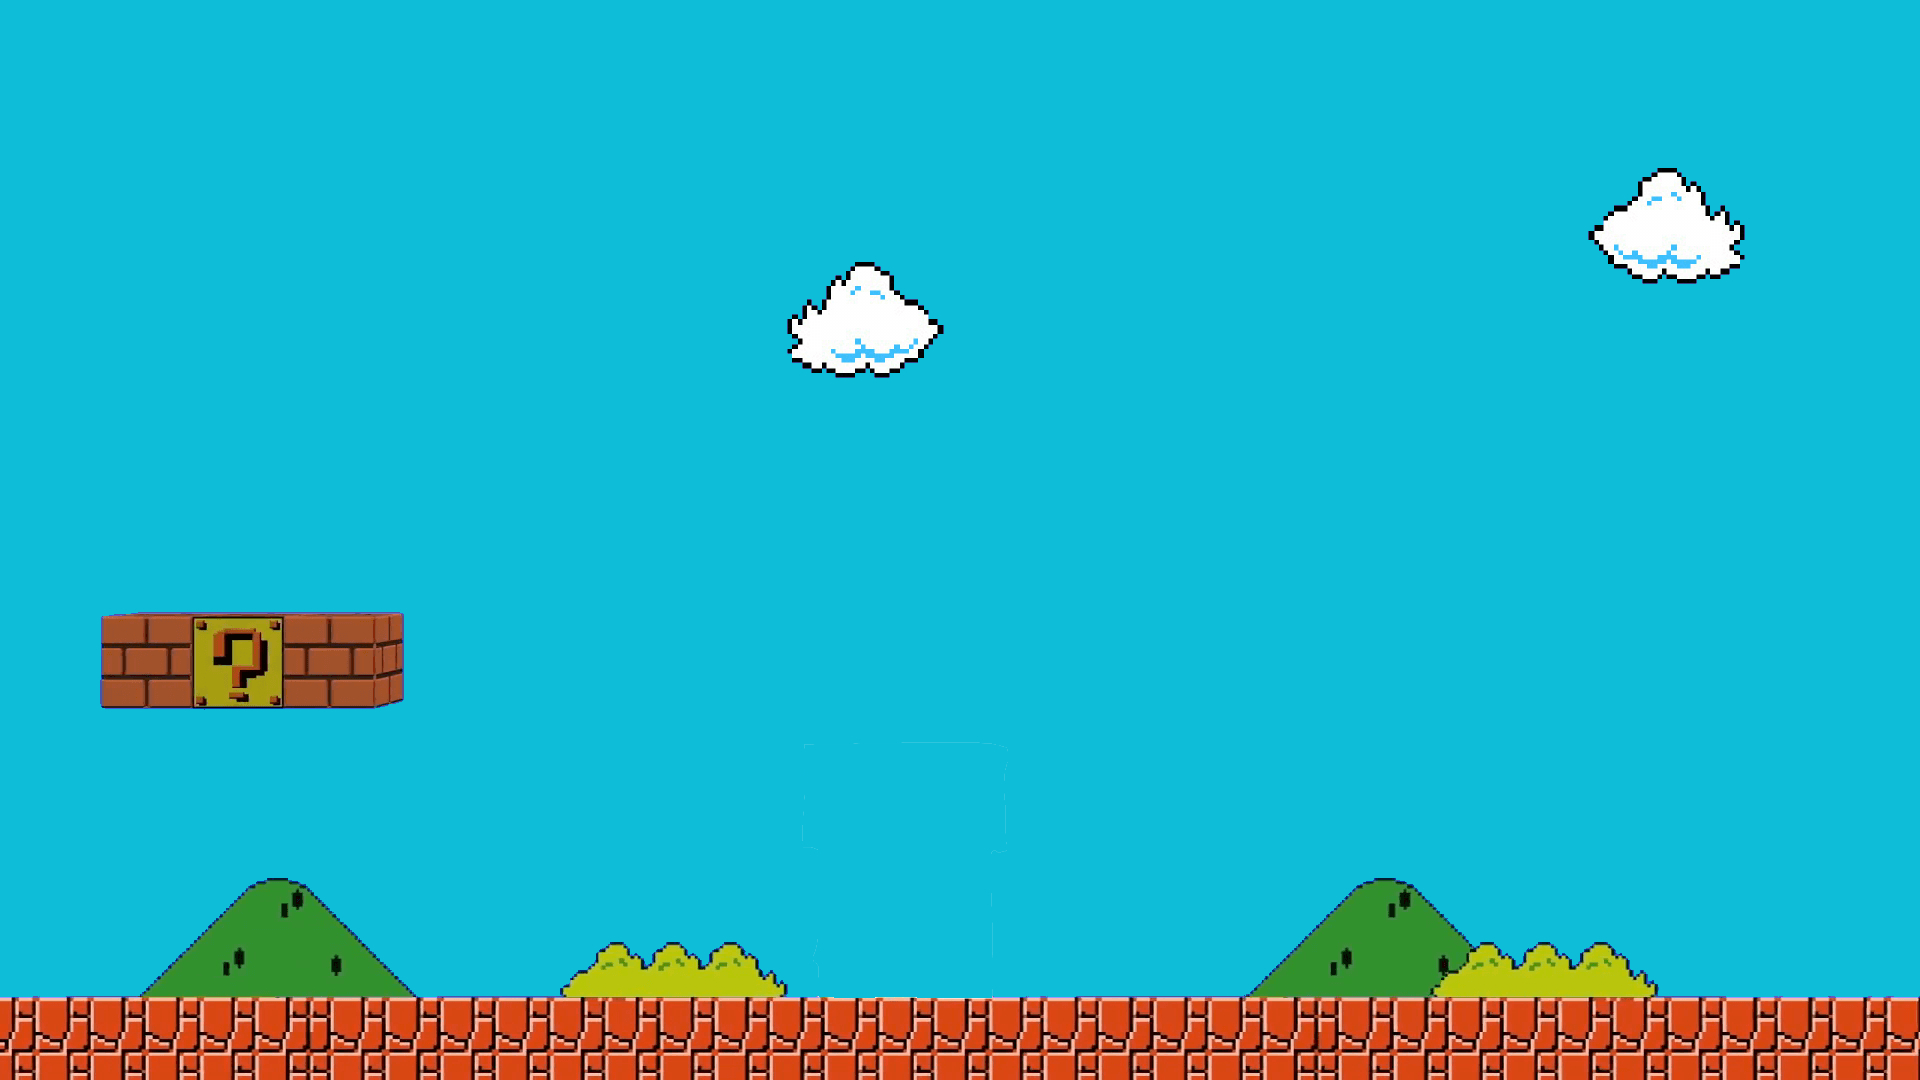
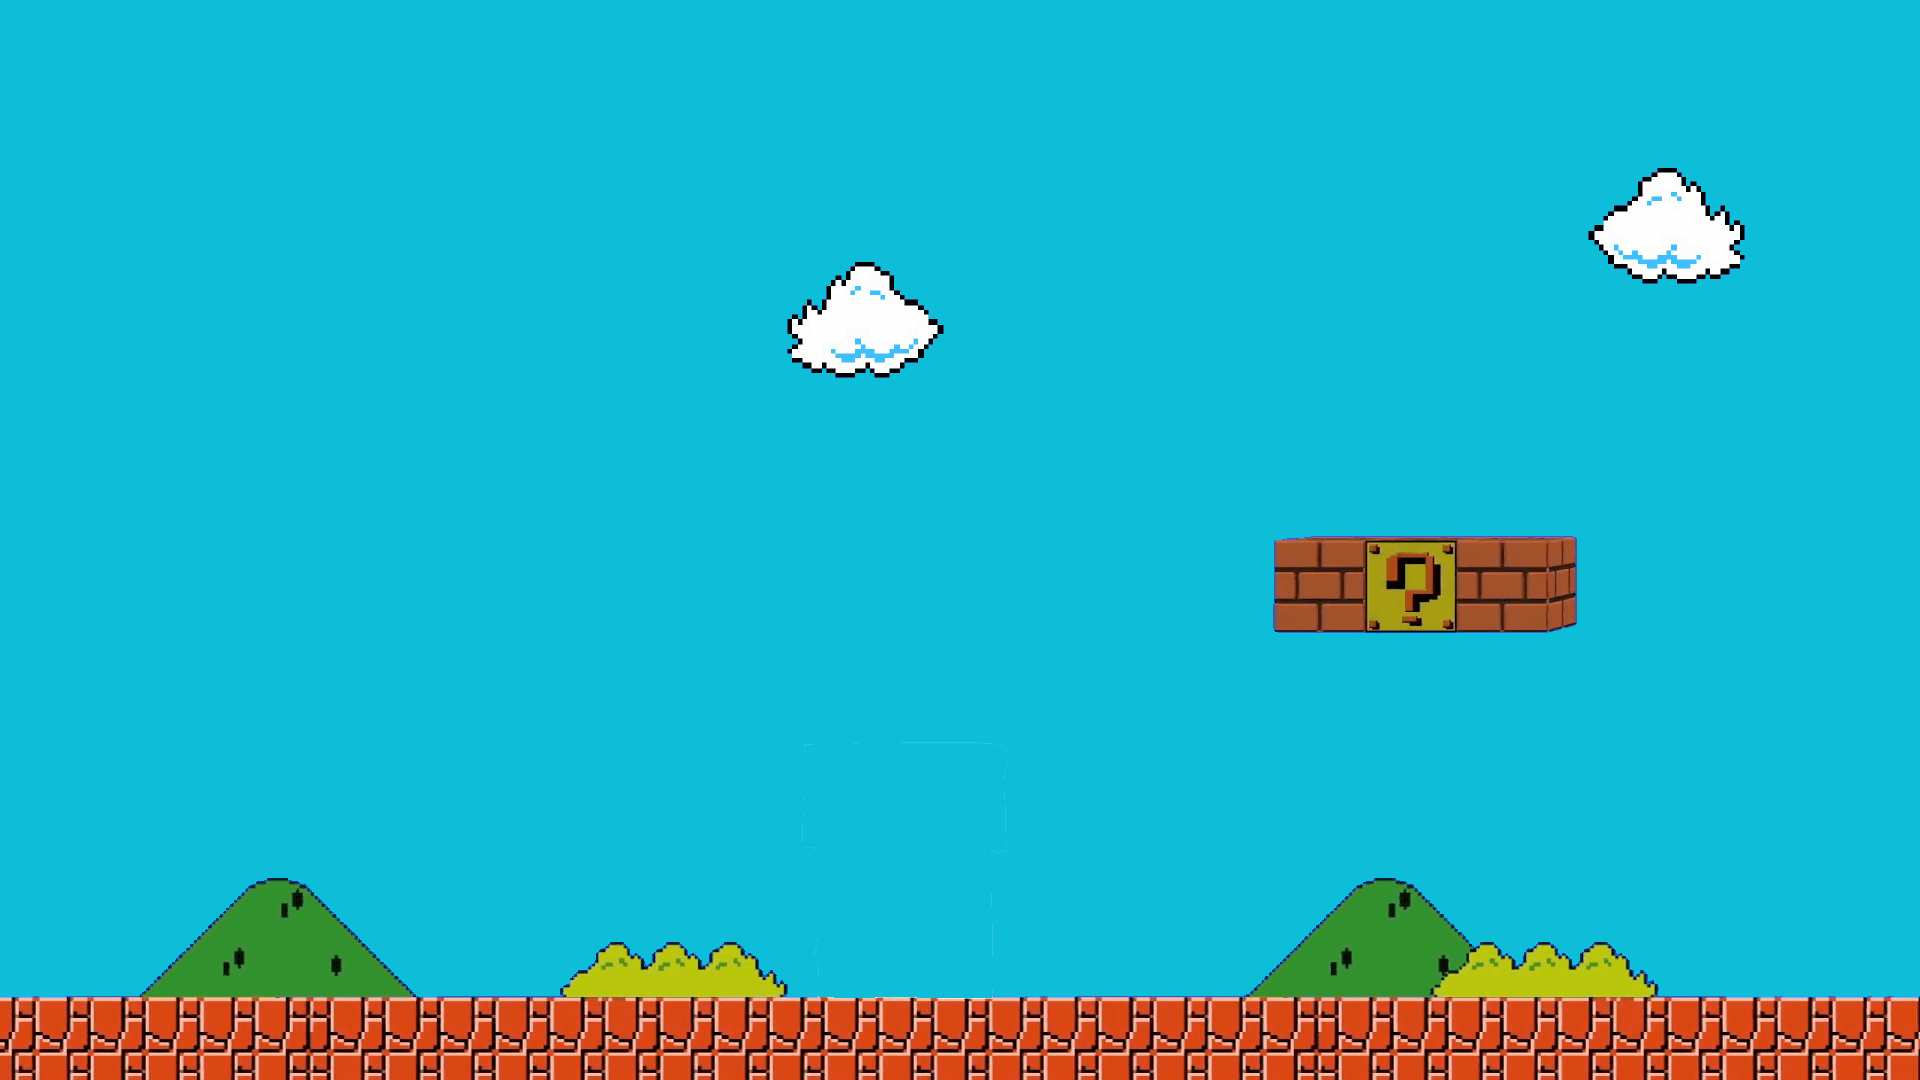
updates

Changed region(s): [[0.0312, 0.55, 0.2188, 0.6722], [0.6562, 0.4889, 0.8438, 0.6111]]

diff --git a/index.html b/index.html
@@ -20,148 +20,48 @@
         <img src="pipe.png" id="pipe">
         <img src="mario.png" id="mario">
         <img src="brick.png" id="brick">
-        <div class="neon-animation" style="width: 300px; height: 12px; background-color: salmon"></div>
-        <img src="me.jpg" id="me">
+        <div class="neon-animation" style="width: 301px; height: 12px;"></div>
+        <div class="neon-animation" style="top: 17%; width: 300px; height: 12px;"></div>
+        <div class="neon-animation" style="top: 17%; left: 66.3%; width: 12px; height: 300px;"></div>
+        <div class="neon-animation" style="top: 17%; left: 81.5%; width: 12px; height: 300px;"></div>
+        <img src="me.png" id="me">
         <div id="about">
-          <h2>Intro<br/>About me...</h2>
+          <h2><b><i>Hi, I'm Samr!</i></b><br/><hr/>
+            <ul id="aboutlist">
+              <li style="font-size: 85%;">BSc Software Engineering student</li>
+              <br/>
+              <li style="color: #f7db85; font-size: 77%;">My passion for technology started, as you might've guessed it,
+                <br/>with Super Mario Bros. game :)<br/>
+                The more life advanced,<br/>
+                the more curious I became as to how these "wonder machines" worked.<br/>
+                Now, I'm at a stage of knowledge and passion<br/>
+                where I'm ready for my next adventure, and start my career as a
+              </li>
+              <li style="font-size: 90%;">Backend\Full-Stack intern and other relevant roles!</li>
+              <br/>
+              <li style="color: #c6ec66; font-size: 40%;">Keep scrolling to find out Mario's destination!!</li>
+            </ul>
+          </h2>
           <p></p>
         </div>
       </section>
       <div class="txt">
-        <h2>testing</h2>
-        <p>
-          introintrointrointrointrointrointrointrointrointrointrointrointrointrointrointro<br/>
-          introintrointrointrointrointrointrointrointrointrointrointrointrointrointrointro<br/>
-          introintrointrointrointrointrointrointrointrointrointrointrointrointrointrointro<br/>
-          introintrointrointrointrointrointrointrointrointrointrointrointrointrointrointro<br/>
-          introintrointrointrointrointrointrointrointrointrointrointrointrointrointrointro<br/>
-          introintrointrointrointrointrointrointrointrointrointrointrointrointrointrointro<br/>
-          introintrointrointrointrointrointrointrointrointrointrointrointrointrointrointro<br/>
-          introintrointrointrointrointrointrointrointrointrointrointrointrointrointrointro<br/>
-          introintrointrointrointrointrointrointrointrointrointrointrointrointrointrointro<br/>
-          introintrointrointrointrointrointrointrointrointrointrointrointrointrointrointro<br/>
-          introintrointrointrointrointrointrointrointrointrointrointrointrointrointrointro<br/>
-          introintrointrointrointrointrointrointrointrointrointrointrointrointrointrointro<br/>
+        <h1 id="txtheader">PROJECTS</h1> <br/><br/>
+        <p class="para">
+          <h2>CEMS System</h2>
         </p>
-        <p>
-          introintrointrointrointrointrointrointrointrointrointrointrointrointrointrointro<br/>
-          introintrointrointrointrointrointrointrointrointrointrointrointrointrointrointro<br/>
-          introintrointrointrointrointrointrointrointrointrointrointrointrointrointrointro<br/>
-          introintrointrointrointrointrointrointrointrointrointrointrointrointrointrointro<br/>
-          introintrointrointrointrointrointrointrointrointrointrointrointrointrointrointro<br/>
-          introintrointrointrointrointrointrointrointrointrointrointrointrointrointrointro<br/>
-          introintrointrointrointrointrointrointrointrointrointrointrointrointrointrointro<br/>
-          introintrointrointrointrointrointrointrointrointrointrointrointrointrointrointro<br/>
-          introintrointrointrointrointrointrointrointrointrointrointrointrointrointrointro<br/>
-          introintrointrointrointrointrointrointrointrointrointrointrointrointrointrointro<br/>
-          introintrointrointrointrointrointrointrointrointrointrointrointrointrointrointro<br/>
-          introintrointrointrointrointrointrointrointrointrointrointrointrointrointrointro<br/>
-          introintrointrointrointrointrointrointrointrointrointrointrointrointrointrointro<br/>
-          introintrointrointrointrointrointrointrointrointrointrointrointrointrointrointro<br/>
-          introintrointrointrointrointrointrointrointrointrointrointrointrointrointrointro<br/>
-          introintrointrointrointrointrointrointrointrointrointrointrointrointrointrointro<br/>
-          introintrointrointrointrointrointrointrointrointrointrointrointrointrointrointro<br/>
-          introintrointrointrointrointrointrointrointrointrointrointrointrointrointrointro<br/>
-          introintrointrointrointrointrointrointrointrointrointrointrointrointrointrointro<br/>
-          introintrointrointrointrointrointrointrointrointrointrointrointrointrointrointro<br/>
-          introintrointrointrointrointrointrointrointrointrointrointrointrointrointrointro<br/>
-          introintrointrointrointrointrointrointrointrointrointrointrointrointrointrointro<br/>
-          introintrointrointrointrointrointrointrointrointrointrointrointrointrointrointro<br/>
-          introintrointrointrointrointrointrointrointrointrointrointrointrointrointrointro<br/>
-          introintrointrointrointrointrointrointrointrointrointrointrointrointrointrointro<br/>
-          introintrointrointrointrointrointrointrointrointrointrointrointrointrointrointro<br/>
-          introintrointrointrointrointrointrointrointrointrointrointrointrointrointrointro<br/>
-          introintrointrointrointrointrointrointrointrointrointrointrointrointrointrointro<br/>
-          introintrointrointrointrointrointrointrointrointrointrointrointrointrointrointro<br/>
-          introintrointrointrointrointrointrointrointrointrointrointrointrointrointrointro<br/>
-          introintrointrointrointrointrointrointrointrointrointrointrointrointrointrointro<br/>
-          introintrointrointrointrointrointrointrointrointrointrointrointrointrointrointro<br/>
-          introintrointrointrointrointrointrointrointrointrointrointrointrointrointrointro<br/>
-          introintrointrointrointrointrointrointrointrointrointrointrointrointrointrointro<br/>
-          introintrointrointrointrointrointrointrointrointrointrointrointrointrointrointro<br/>
-          introintrointrointrointrointrointrointrointrointrointrointrointrointrointrointro<br/>
-          introintrointrointrointrointrointrointrointrointrointrointrointrointrointrointro<br/>
-          introintrointrointrointrointrointrointrointrointrointrointrointrointrointrointro<br/>
-          introintrointrointrointrointrointrointrointrointrointrointrointrointrointrointro<br/>
-          introintrointrointrointrointrointrointrointrointrointrointrointrointrointrointro<br/>
-          introintrointrointrointrointrointrointrointrointrointrointrointrointrointrointro<br/>
-          introintrointrointrointrointrointrointrointrointrointrointrointrointrointrointro<br/>
-          introintrointrointrointrointrointrointrointrointrointrointrointrointrointrointro<br/>
-          introintrointrointrointrointrointrointrointrointrointrointrointrointrointrointro<br/>
-          introintrointrointrointrointrointrointrointrointrointrointrointrointrointrointro<br/>
-          introintrointrointrointrointrointrointrointrointrointrointrointrointrointrointro<br/>
-          introintrointrointrointrointrointrointrointrointrointrointrointrointrointrointro<br/>
-          introintrointrointrointrointrointrointrointrointrointrointrointrointrointrointro<br/>
-          introintrointrointrointrointrointrointrointrointrointrointrointrointrointrointro<br/>
-          introintrointrointrointrointrointrointrointrointrointrointrointrointrointrointro<br/>
-          introintrointrointrointrointrointrointrointrointrointrointrointrointrointrointro<br/>
-          introintrointrointrointrointrointrointrointrointrointrointrointrointrointrointro<br/>
-          introintrointrointrointrointrointrointrointrointrointrointrointrointrointrointro<br/>
-          introintrointrointrointrointrointrointrointrointrointrointrointrointrointrointro<br/>
-          introintrointrointrointrointrointrointrointrointrointrointrointrointrointrointro<br/>
-          introintrointrointrointrointrointrointrointrointrointrointrointrointrointrointro<br/>
-          introintrointrointrointrointrointrointrointrointrointrointrointrointrointrointro<br/>
-          introintrointrointrointrointrointrointrointrointrointrointrointrointrointrointro<br/>
-          introintrointrointrointrointrointrointrointrointrointrointrointrointrointrointro<br/>
-          introintrointrointrointrointrointrointrointrointrointrointrointrointrointrointro<br/>
-          introintrointrointrointrointrointrointrointrointrointrointrointrointrointrointro<br/>
-          introintrointrointrointrointrointrointrointrointrointrointrointrointrointrointro<br/>
-          introintrointrointrointrointrointrointrointrointrointrointrointrointrointrointro<br/>
-          introintrointrointrointrointrointrointrointrointrointrointrointrointrointrointro<br/>
-          introintrointrointrointrointrointrointrointrointrointrointrointrointrointrointro<br/>
-          introintrointrointrointrointrointrointrointrointrointrointrointrointrointrointro<br/>
-          introintrointrointrointrointrointrointrointrointrointrointrointrointrointrointro<br/>
-          introintrointrointrointrointrointrointrointrointrointrointrointrointrointrointro<br/>
-          introintrointrointrointrointrointrointrointrointrointrointrointrointrointrointro<br/>
-          introintrointrointrointrointrointrointrointrointrointrointrointrointrointrointro<br/>
-          introintrointrointrointrointrointrointrointrointrointrointrointrointrointrointro<br/>
-          introintrointrointrointrointrointrointrointrointrointrointrointrointrointrointro<br/>
-          introintrointrointrointrointrointrointrointrointrointrointrointrointrointrointro<br/>
-          introintrointrointrointrointrointrointrointrointrointrointrointrointrointrointro<br/>
-          introintrointrointrointrointrointrointrointrointrointrointrointrointrointrointro<br/>
-          introintrointrointrointrointrointrointrointrointrointrointrointrointrointrointro<br/>
-          introintrointrointrointrointrointrointrointrointrointrointrointrointrointrointro<br/>
-          introintrointrointrointrointrointrointrointrointrointrointrointrointrointrointro<br/>
-          introintrointrointrointrointrointrointrointrointrointrointrointrointrointrointro<br/>
-          introintrointrointrointrointrointrointrointrointrointrointrointrointrointrointro<br/>
-          introintrointrointrointrointrointrointrointrointrointrointrointrointrointrointro<br/>
-          introintrointrointrointrointrointrointrointrointrointrointrointrointrointrointro<br/>
-          introintrointrointrointrointrointrointrointrointrointrointrointrointrointrointro<br/>
-          introintrointrointrointrointrointrointrointrointrointrointrointrointrointrointro<br/>
-          introintrointrointrointrointrointrointrointrointrointrointrointrointrointrointro<br/>
-          introintrointrointrointrointrointrointrointrointrointrointrointrointrointrointro<br/>
-          introintrointrointrointrointrointrointrointrointrointrointrointrointrointrointro<br/>
-          introintrointrointrointrointrointrointrointrointrointrointrointrointrointrointro<br/>
-          introintrointrointrointrointrointrointrointrointrointrointrointrointrointrointro<br/>
-          introintrointrointrointrointrointrointrointrointrointrointrointrointrointrointro<br/>
-          introintrointrointrointrointrointrointrointrointrointrointrointrointrointrointro<br/>
-          introintrointrointrointrointrointrointrointrointrointrointrointrointrointrointro<br/>
-          introintrointrointrointrointrointrointrointrointrointrointrointrointrointrointro<br/>
-          introintrointrointrointrointrointrointrointrointrointrointrointrointrointrointro<br/>
-          introintrointrointrointrointrointrointrointrointrointrointrointrointrointrointro<br/>
-          introintrointrointrointrointrointrointrointrointrointrointrointrointrointrointro<br/>
-          introintrointrointrointrointrointrointrointrointrointrointrointrointrointrointro<br/>
-          introintrointrointrointrointrointrointrointrointrointrointrointrointrointrointro<br/>
-          introintrointrointrointrointrointrointrointrointrointrointrointrointrointrointro<br/>
-          introintrointrointrointrointrointrointrointrointrointrointrointrointrointrointro<br/>
-          introintrointrointrointrointrointrointrointrointrointrointrointrointrointrointro<br/>
-          introintrointrointrointrointrointrointrointrointrointrointrointrointrointrointro<br/>
-          introintrointrointrointrointrointrointrointrointrointrointrointrointrointrointro<br/>
-          introintrointrointrointrointrointrointrointrointrointrointrointrointrointrointro<br/>
-          introintrointrointrointrointrointrointrointrointrointrointrointrointrointrointro<br/>
-          introintrointrointrointrointrointrointrointrointrointrointrointrointrointrointro<br/>
-          introintrointrointrointrointrointrointrointrointrointrointrointrointrointrointro<br/>
-          introintrointrointrointrointrointrointrointrointrointrointrointrointrointrointro<br/>
-          introintrointrointrointrointrointrointrointrointrointrointrointrointrointrointro<br/>
-          introintrointrointrointrointrointrointrointrointrointrointrointrointrointrointro<br/>
-          introintrointrointrointrointrointrointrointrointrointrointrointrointrointrointro<br/>
-          introintrointrointrointrointrointrointrointrointrointrointrointrointrointrointro<br/>
-          introintrointrointrointrointrointrointrointrointrointrointrointrointrointrointro<br/>
-          introintrointrointrointrointrointrointrointrointrointrointrointrointrointrointro<br/>
+        <p class="para">
+        </p>
+        <p class="para">
+        </p>
+        <p class="para">
+        </p>
+        <p class="para">
         </p>
       </div>
       <section>
         <img src="closingbg.png" id="closebg">
+        <img src="flaglight.png" id="flaglight">
       </section>
     </main>
     <footer></footer>

diff --git a/style.css b/style.css
@@ -84,30 +84,53 @@ section img {
 }
 
 #about {
-  z-index: 4;
+  z-index: 5;
   position: absolute;
-  left: 57%;
+  left: 4%;
+  top: 15%;
+  border: 10px solid powderblue;
+  padding: 20px;
+  color: #f0cc5d;
+  background-color: #61bece;
+}
+
+#aboutlist {
+  list-style: none;
 }
 
 .txt {
-  background: linear-gradient(#cb6315, 15%, #000, 85%, #0ebdd8);
-  position: relative;
+  background: linear-gradient(#cb6315, #0ebdd8);
+  position: absolute;
   padding: 50px;
   width: 100%;
   z-index: 5;
 }
 
 @keyframes neon-colors {
-  from {
+  0% {
     background-color: #9be85b;
   }
-  to {
-    background-color: #5be8b0;
+  20% {
+    background-color: #d9e85b;
+  }
+  40% {
+    background-color: #e8c25b;
+  }
+  60% {
+    background-color: #e8aa5b;
+  }
+  80% {
+    background-color: #d9e85b;
+  }
+  100% {
+    background-color: #9be85b;
   }
 }
+
 .neon-animation {
   z-index: 5;
-  top: 55.8%;
+  top: 48.5%;
+  left: 66.3%;
   position: absolute;
   animation-name: neon-colors;
   animation-duration: 1s;
@@ -123,15 +146,55 @@ section img {
   width: 300px;
   height: 400px;
   position: absolute;
-  top: 115px;
-  left: 100px;
-  border-radius: 220px;
+  top: 16.5%;
+  left: 65.4%;
+  border-radius: 200px;
 }
 
 #brick {
   z-index: 7;
   top: 92.2%;
+  left: 30.1%;
   width: 83px;
   height: 72px;
-  left: 30.1%;
+}
+
+@keyframes flaglight-colors {
+  0% {
+    background-color: #e64b4b;
+  }
+  20% {
+    background-color: #e64ba2;
+  }
+  40% {
+    background-color: #5e4be6;
+  }
+  60% {
+    background-color: #4ba0e6;
+  }
+  80% {
+    background-color: #e64ba2;
+  }
+  100% {
+    background-color: #e64b4b;
+  }
+}
+
+#flaglight {
+  z-index: 8;
+  height: 28px;
+  width: 28px;
+  top: 19.4%;
+  left: 16.55%;
+  animation-name: flaglight-colors;
+  animation-duration: 1s;
+  animation-iteration-count: infinite;
+}
+
+#txtheader {
+  background-color: #c6ec66;
+  padding: 8px;
+  border-radius: 10px 100px / 120px;
+  width: 10.5%;
+  color: rgba(0, 0, 0, 0.5); /*transparent text*/
 }

diff --git a/script.js b/script.js
@@ -1,6 +1,11 @@
 var mario = document.getElementById('mario');
+var flaglight = document.getElementById('flaglight');
 
 window.addEventListener('scroll', function() {
-  var value = window.scrollY;
-  mario.style.top = value * 1.2355 + 'px';
+  var value = window.scrollY; //number of pixels that the document is currently scrolled vertically
+  mario.style.top = value * 0.199 + 'vh'; //height of viewport
+
+  if (window.scrollMaxY == value)
+    flaglight.style.visibility = "visible";
+  else flaglight.style.visibility = "hidden";
 })
